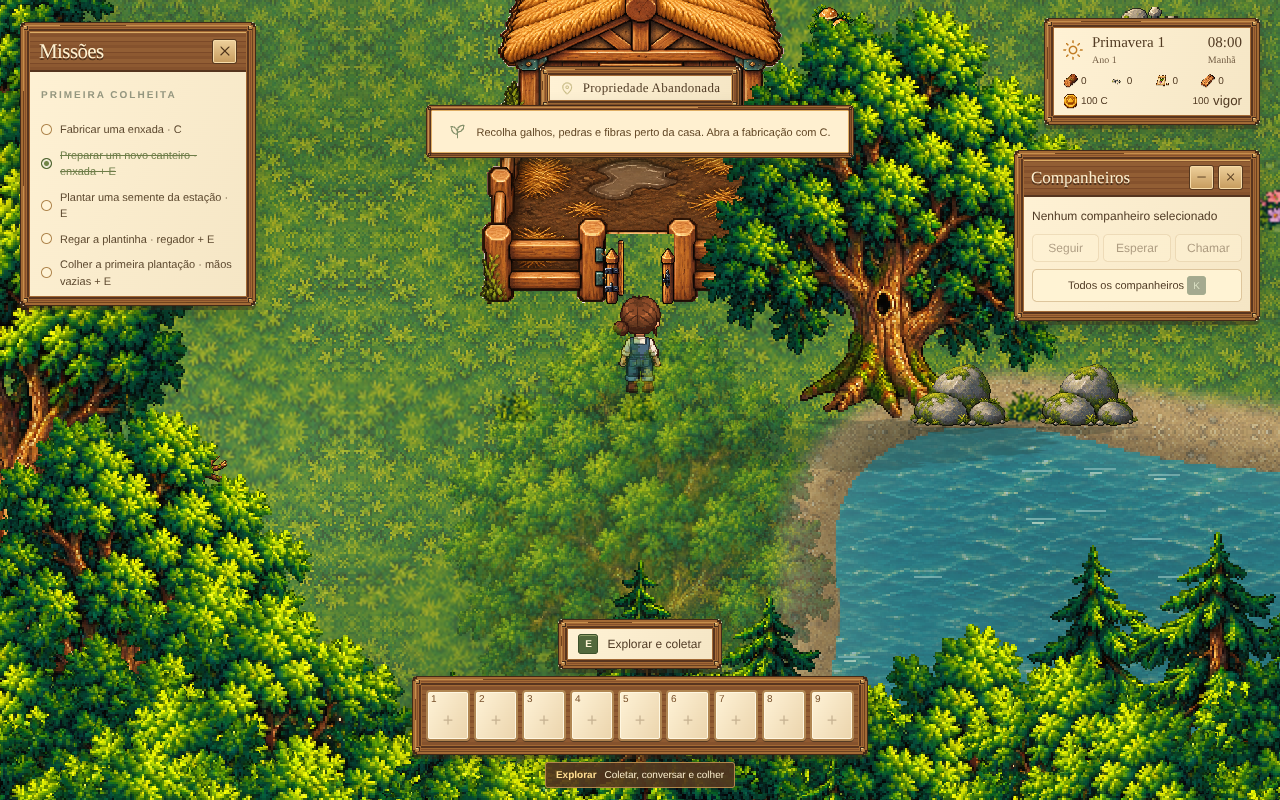
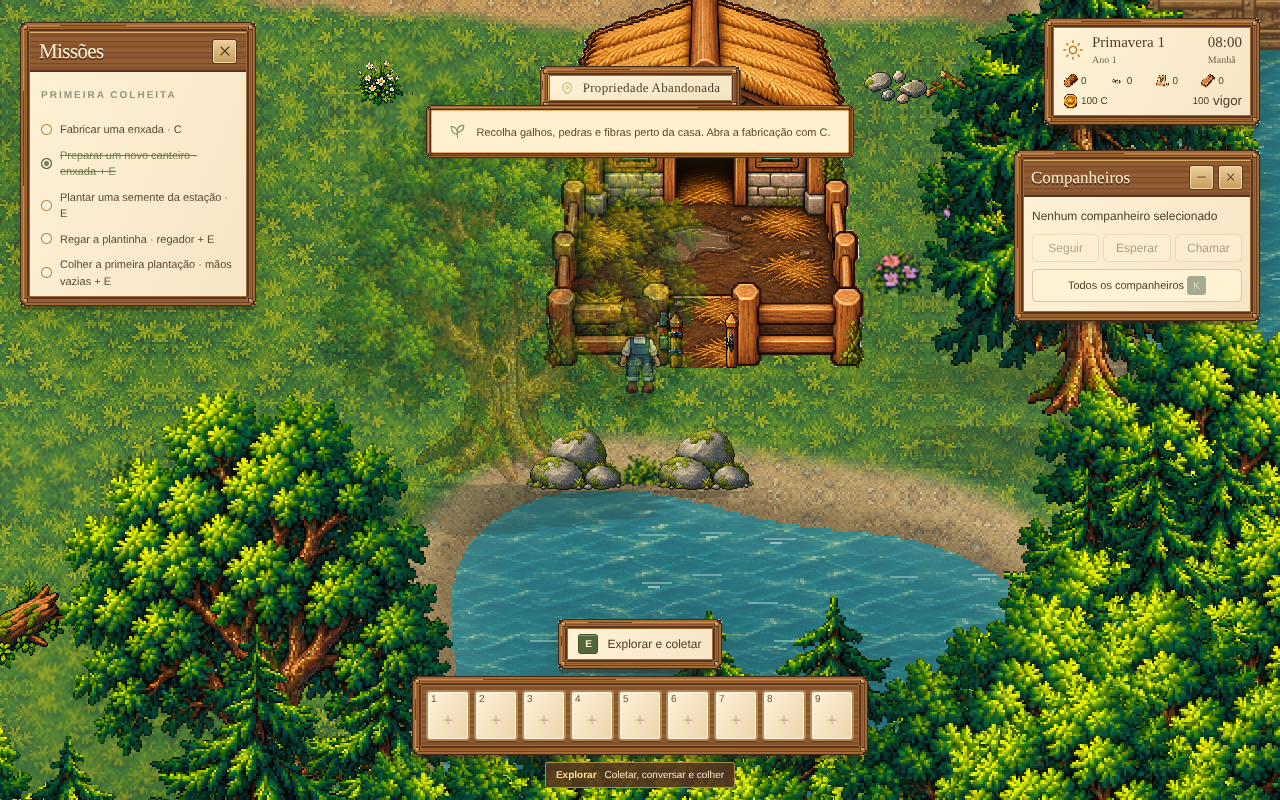
Preenche o vão da porteira do chiqueiro com a terra do cercado
O buraco aberto para a porteira mostrava a grama do terreno. Agora ele
recebe um trecho de terra e palha do próprio cercado.

Claude-Session: https://claude.ai/code/session_01VpVxgMQDGaCXuwQcLEJaM9

diff --git a/src/farm-construction-view.ts b/src/farm-construction-view.ts
@@ -13,7 +13,10 @@ function texture(scene:Phaser.Scene,kind:FarmKind,stage:0|1|2):string{
  const frame=stable??(separate?{x:0,y:0,width:source.width,height:source.height}:atlas.frames[`${kind==='aprisco'?'barn':kind==='pigsty'?'coop':kind}-${stage}` as keyof typeof atlas.frames]),canvas=document.createElement('canvas');canvas.width=frame.width;canvas.height=kind==='aprisco'&&stage===2?930+Math.round((FARM_BUILDINGS[kind].height-FARM_BUILDINGS[kind].bodyRows)*32*frame.width/(FARM_BUILDINGS[kind].width*32)):frame.height;
  const ctx=canvas.getContext('2d')!;ctx.imageSmoothingEnabled=false;if(kind==='aprisco'&&stage===2){ctx.drawImage(source,0,0,frame.width,930,0,0,frame.width,930);ctx.drawImage(source,0,930,frame.width,frame.height-930,0,930,frame.width,canvas.height-930);}else ctx.drawImage(source,frame.x,frame.y,frame.width,frame.height,0,0,frame.width,frame.height);
  // The opening has its own native gate, so its picture and collision agree.
- if(stage===2&&kind!=='silo'&&!FARM_BUILDINGS[kind].openYard){const scale=FARM_BUILDINGS[kind].width*32/frame.width;ctx.clearRect((frame.width-34/scale)/2,frame.height-35/scale,34/scale,35/scale);}
+ if(stage===2&&kind!=='silo'&&!FARM_BUILDINGS[kind].openYard){const scale=FARM_BUILDINGS[kind].width*32/frame.width;const hw=34/scale,hh=35/scale,hx=(frame.width-hw)/2,hy=frame.height-hh;ctx.clearRect(hx,hy,hw,hh);
+  // No chiqueiro, o vão da porteira continua com a terra e a palha do cercado (um trecho
+  // limpo à direita e acima), em vez de mostrar a grama do terreno.
+  if(kind==='pigsty')ctx.drawImage(canvas,hx+hw*.98,hy-hh*1.22,hw,hh,hx,hy,hw,hh);}
  scene.textures.addCanvas(key,canvas)?.setFilter(Phaser.Textures.FilterMode.NEAREST);return key;
 }
 function buildingLayer(scene:Phaser.Scene,key:string,kind:FarmKind,front:boolean):string{

diff --git a/docs/PASSAGEM.md b/docs/PASSAGEM.md
@@ -4,11 +4,24 @@
 
 - **Atualizado em:** 2026-11-14
 - **Por:** Claude Code
-- **Continuar a partir de:** branch `release/v0.10.0-preview.35`, HEAD. Abelhas em `61fbd2e`/`becdb22`; patos em `5ee1bb4`; porcos em `a3eb5c8`.
+- **Continuar a partir de:** branch `release/v0.10.0-preview.35`, HEAD. Porcos em `a3eb5c8`; barril de conservas e prensa de cera em `535fdbe`.
 - **Última versão publicada:** `v0.10.0-preview.34`, https://github.com/juniorangel2000-commits/Junior/releases/tag/v0.10.0-preview.34
 - **Estado:** casa do jogador com móveis, fogão, paredes e piso no mesmo conjunto rústico. Cozinha, máquinas, patos e distanciamento permanecem integrados. Nada publicado; `main`, tags e versão do pacote continuam na preview.34.
 
 ## Feito nesta rodada
+
+### Barril de conservas, prensa de cera e porteira do chiqueiro (Claude Code)
+
+- **Arte do ChatGPT feita pelo Junior:** originais em `docs/arte-recebida/`. O fundo branco foi removido por script e as imagens foram separadas em 3 quadros (parado, trabalhando e variação) e 3 ícones, na resolução original.
+- **Barril de conservas** (`preserveKeg`, projeto do Tobias, 50 C):
+  - 3 morangos ou 3 melancias, com 1 mel (`extra`), viram geleia em 3 dias;
+  - o Nilo compra a geleia de morango por 170 e a de melancia por 330.
+- **Prensa de cera** (`waxPress`, projeto do Bento, 50 C):
+  - 2 ceras viram 1 vela em meio dia;
+  - a Amélia compra a vela por 80.
+- **Porteira do chiqueiro:** o vão aberto para a porteira mostrava a grama do terreno. Agora ele é preenchido com um trecho de terra e palha do próprio cercado (`farm-construction-view.ts`). A textura conferida está em `docs/planejamento/qa-porcos/chiqueiro-textura.png`.
+- Com isso, a etapa 7 do plano tem as duas máquinas prontas; falta o equilíbrio de preços.
+
 
 ### Porcos, chiqueiro e composteira (Claude Code)
 
@@ -212,9 +225,9 @@
 
 ## Em andamento e próximo passo exato
 
-1. Próxima etapa do plano (7): **barril de conservas** (geleias de morango e melancia, com mel) e **prensa de cera** (cera vira vela), mais o equilíbrio de preços. A arte dessas duas máquinas ainda não existe.
-2. Qualidade dos produtos e pratos (cozinha, etapa 3).
-3. Não conferido no navegador: a composteira (coberta por teste unitário) e o mel de flor.
+1. **Equilíbrio de preços** dos produtos, máquinas e pratos, jogando (etapa 7 do plano).
+2. **Qualidade** dos produtos e pratos (cozinha, etapa 3).
+3. **Não conferido no navegador:** composteira, barril de conservas, prensa de cera e mel de flor (todos cobertos por testes unitários; os testes genéricos de máquinas incluem a prensa).
 - Não publicar sem pedido do Junior. O pacote continua preview.34; tudo está no branch preview.35.
 
 ## Pendências e ideias para depois
@@ -233,7 +246,7 @@
 ## Testes
 
 - `npm run check`: ok.
-- `npm test`: **2.073 passaram, zero falhas, 234 arquivos**. Novo: `tests/pigs.test.ts` (5).
+- `npm test`: **2.076 passaram, zero falhas, 234 arquivos**. Inclui `tests/pigs.test.ts` (5) e os testes genéricos de máquinas, que agora cobrem a prensa de cera.
 - `npm run build`: não repetido desde a rodada do Codex.
 - Chromium, nesta rodada:
   - `scripts/qa-pigs.cjs`: OK. O chiqueiro aparece na Propriedade, num lugar escolhido pela mesma regra de colocação do jogo. O porco aparece dentro à noite, o cocho recebe 6 sobras, e de manhã aparece esterco, que é recolhido.
